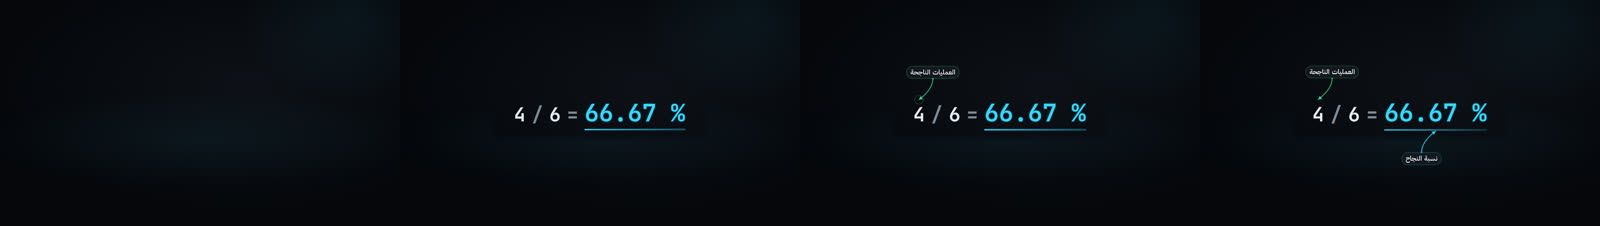
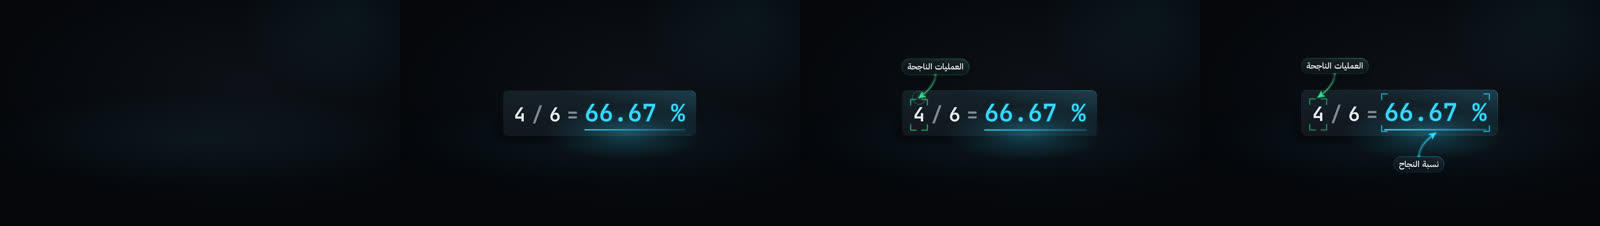
P7 typeui: CalloutArrow finished (rim-lit pill, corner brackets, gradient ribbon with comet and notched head; snap PASS det 0 qa 0, baselines pending-critic; perf lite 0.073 / standard 0.096 / hero 0.099 box s/frame; Arabic QA pass)
Claude-Session: https://claude.ai/code/session_01VrU9wxU8GmuhdhWAAHnnQ8

diff --git a/studio/src/components/CalloutArrow/CalloutArrow.tsx b/studio/src/components/CalloutArrow/CalloutArrow.tsx
@@ -3,6 +3,10 @@
 // end = left, top, bottom) on a small glass pill, arrives on the layer anchor with the `label` preset (RTL for Arabic), and the
 // arrow then draws from the label to the target edge (PathDraw timing = `morph` preset, camera ease) and lands with a
 // 2-frame glow pulse on the target point. The label is clamped into ctx.box (title-safe after the camera envelope).
+// Light (ADR-003 LK-F, 04 §1.2): the label is a glass pill with a rim-lit gradient border (key from the upper right), a soft drop
+// shadow and an emissive pool; the target is marked by four corner brackets that close in on it as the label lands, the arrow is a
+// gradient ribbon (faint at the label, full at the tip) with a comet at its drawing head, a notched head and an impact ring on
+// landing; once landed the brackets breathe slowly (frame-driven). 2D only, so hero = standard.
 // Text-safe: the label carries its own glass plate (04 §3.4), so the slot-wide haze / bokeh mask is not used (textRect is
 // off-frame; see docs/p7/catalog_status/typeui.md). Arabic is never split: the label is one MixedText run.
 import React, {useRef} from 'react';
@@ -19,9 +23,12 @@ import {Mx, filmF} from '../_typeui/kit';
 import {useTargetRect} from '../_typeui/target';
 
 const clamp = {extrapolateLeft: 'clamp', extrapolateRight: 'clamp'} as const;
-const GAP = 110; // label clearance from the target edge (layer px)
+const GAP = 130; // label clearance from the target edge (layer px)
+const BRACKET = 12; // bracket clearance around the target (layer px)
+const ARM = 26; // bracket arm length (layer px, capped by the target size)
+const TIP = BRACKET + 8; // the arrow tip stops this far outside the target edge
 const RISE = 0.6; // diagonal: the label sits this share of its gap above / beside the target axis
-const PILL = {x: 0.55, y: 0.22}; // pill padding in em of the label size
+const PILL = {x: 0.6, y: 0.24}; // pill padding in em of the label size
 
 type Geo = {lx: number; ly: number; ax: number; ay: number; bx: number; by: number; cx: number; cy: number};
 /** Label top-left (lx, ly) and the arrow from the label edge (a) via control (c) to the target edge (b). */
@@ -46,10 +53,10 @@ export const geometry = (side: Props['side'], t: Rect, lw: number, lh: number, b
   let ay = lcy;
   let bx = cxT;
   let by = cyT;
-  if (side === 'start') (ax = lx), (bx = t.x + t.w + 10), (by = cyT);
-  else if (side === 'end') (ax = lx + lw), (bx = t.x - 10), (by = cyT);
-  else if (side === 'top') (ay = ly + lh), (by = t.y - 10), (bx = cxT);
-  else (ay = ly), (by = t.y + t.h + 10), (bx = cxT);
+  if (side === 'start') (ax = lx), (bx = t.x + t.w + TIP), (by = cyT);
+  else if (side === 'end') (ax = lx + lw), (bx = t.x - TIP), (by = cyT);
+  else if (side === 'top') (ay = ly + lh), (by = t.y - TIP), (bx = cxT);
+  else (ay = ly), (by = t.y + t.h + TIP), (bx = cxT);
   const horiz = side === 'start' || side === 'end';
   const cx = horiz ? bx + (ax - bx) * 0.5 : ax;
   const cy = horiz ? ay : by + (ay - by) * 0.5;
@@ -63,7 +70,7 @@ export const CalloutArrowView: React.FC<DcProps<Props>> = ({props, ctx}) => {
   const exitN = presetFrames('exit', ctx.fps, true);
   const active = t >= ctx.at - 1 && (exitT === undefined || exitT <= exitN);
   const color = C[props.color];
-  const size = SIZE.label;
+  const size = SIZE.body;
   const fit = useAutoFit(labelRef, {id: `${ctx.id}:label`, size, min: SIZE.labelMin, maxW: ctx.box.w * 0.45, key: props.label ?? ''});
   const {ref, m, e} = useTargetRect(props.to, t, active, () => {
     const el = labelRef.current;
@@ -82,7 +89,7 @@ export const CalloutArrowView: React.FC<DcProps<Props>> = ({props, ctx}) => {
   const fade = exitT !== undefined && exitT >= 0 ? interpolate(exitT, [0, presetFrames('exit', ctx.fps)], [1, 0], {...clamp, easing: ease.camera}) : 1;
   const g = m && e ? geometry(props.side, m.rect, props.label ? e.lw : 0, props.label ? e.lh : 0, ctx.box) : null;
   const d = g ? `M ${g.ax.toFixed(1)} ${g.ay.toFixed(1)} Q ${g.cx.toFixed(1)} ${g.cy.toFixed(1)} ${g.bx.toFixed(1)} ${g.by.toFixed(1)}` : '';
-  // arrow head along the end tangent (control -> end)
+  // arrow head along the end tangent (control -> end): a notched barb, not a plain triangle
   const head = (() => {
     if (!g) return '';
     const dx = g.bx - g.cx;
@@ -90,22 +97,70 @@ export const CalloutArrowView: React.FC<DcProps<Props>> = ({props, ctx}) => {
     const L = Math.max(1e-3, Math.hypot(dx, dy));
     const ux = dx / L;
     const uy = dy / L;
-    const s = 16;
-    const w = 9;
+    const s = 28;
+    const w = 14;
+    const n = 9; // notch depth
     const bx = g.bx - ux * s;
     const by = g.by - uy * s;
-    return `M ${g.bx.toFixed(1)} ${g.by.toFixed(1)} L ${(bx - uy * w).toFixed(1)} ${(by + ux * w).toFixed(1)} L ${(bx + uy * w).toFixed(1)} ${(by - ux * w).toFixed(1)} Z`;
+    const nx = g.bx - ux * (s - n);
+    const ny = g.by - uy * (s - n);
+    const f = (x: number, y: number) => `${x.toFixed(1)} ${y.toFixed(1)}`;
+    return `M ${f(g.bx, g.by)} L ${f(bx - uy * w, by + ux * w)} L ${f(nx, ny)} L ${f(bx + uy * w, by - ux * w)} Z`;
+  })();
+  // comet at the drawing head (quadratic Bezier point at the draw progress)
+  const comet = g && p > 0 && p < 1 ? {x: (1 - p) * (1 - p) * g.ax + 2 * (1 - p) * p * g.cx + p * p * g.bx, y: (1 - p) * (1 - p) * g.ay + 2 * (1 - p) * p * g.cy + p * p * g.by} : null;
+  // target brackets: they close in from BRACKET + 18 px on the label's anchor frame and then breathe (period 3 s) once landed
+  const markP = revealProgress(t - ctx.at, presetFrames('arrive', ctx.fps)) * fade;
+  const breathe = t >= landed ? 0.82 + 0.18 * Math.sin((2 * Math.PI * (t - landed)) / (ctx.fps * 3)) : 0.82;
+  const br = (() => {
+    if (!m) return '';
+    const r = m.rect;
+    const pad = BRACKET + 18 * (1 - markP);
+    const x0 = r.x - pad;
+    const y0 = r.y - pad;
+    const x1 = r.x + r.w + pad;
+    const y1 = r.y + r.h + pad;
+    const a = Math.min(ARM, (x1 - x0) / 3, (y1 - y0) / 3);
+    const f = (x: number, y: number) => `${x.toFixed(1)} ${y.toFixed(1)}`;
+    return [
+      `M ${f(x0, y0 + a)} L ${f(x0, y0)} L ${f(x0 + a, y0)}`,
+      `M ${f(x1 - a, y0)} L ${f(x1, y0)} L ${f(x1, y0 + a)}`,
+      `M ${f(x1, y1 - a)} L ${f(x1, y1)} L ${f(x1 - a, y1)}`,
+      `M ${f(x0 + a, y1)} L ${f(x0, y1)} L ${f(x0, y1 - a)}`,
+    ].join(' ');
   })();
   const ls = fit.size;
+  const gradId = `${ctx.id}-ca-grad`;
+  const rim = `linear-gradient(to bottom left, ${color}${hex(0.95)} 0%, ${color}${hex(0.32)} 40%, ${color}${hex(0.16)} 100%)`;
+  const stock = `linear-gradient(180deg, ${C.panel}${hex(0.92)}, ${C.ground}${hex(0.88)})`;
+  const kLight = 0.5 + 0.5 * markP + ctx.mod.glow;
   return (
     <div ref={ref} style={{position: 'absolute', inset: 0}}>
-      {g && p > 0 ? (
+      {g ? (
         <svg width="100%" height="100%" viewBox={`0 0 ${W} ${H}`} style={{position: 'absolute', inset: 0, overflow: 'visible', opacity: fade}}>
-          <path d={d} pathLength={1} fill="none" stroke={color} strokeOpacity={0.18} strokeWidth={9} strokeLinecap="round" strokeDasharray={`${p} 1`} />
-          <path d={d} pathLength={1} fill="none" stroke={color} strokeWidth={2.5} strokeLinecap="round" strokeDasharray={`${p} 1`} />
-          <circle cx={g.ax} cy={g.ay} r={4} fill={color} />
-          {p >= 0.98 ? <path d={head} fill={color} /> : null}
-          {pulse > 0 ? <circle cx={g.bx} cy={g.by} r={10 + 22 * (1 - pulse)} fill="none" stroke={color} strokeOpacity={0.7 * pulse} strokeWidth={2} /> : null}
+          <defs>
+            <linearGradient id={gradId} gradientUnits="userSpaceOnUse" x1={g.ax} y1={g.ay} x2={g.bx} y2={g.by}>
+              <stop offset="0" stopColor={color} stopOpacity={0.35} />
+              <stop offset="1" stopColor={color} stopOpacity={1} />
+            </linearGradient>
+          </defs>
+          {markP > 0 ? (
+            <>
+              <path d={br} fill="none" stroke={color} strokeOpacity={0.16 * markP} strokeWidth={10} strokeLinecap="round" strokeLinejoin="round" />
+              <path d={br} fill="none" stroke={color} strokeOpacity={breathe * markP} strokeWidth={3} strokeLinecap="round" strokeLinejoin="round" />
+            </>
+          ) : null}
+          {p > 0 ? (
+            <>
+              <path d={d} pathLength={1} fill="none" stroke={color} strokeOpacity={0.2} strokeWidth={16} strokeLinecap="round" strokeDasharray={`${p} 1`} />
+              <path d={d} pathLength={1} fill="none" stroke={`url(#${gradId})`} strokeWidth={4} strokeLinecap="round" strokeDasharray={`${p} 1`} />
+              <circle cx={g.ax} cy={g.ay} r={9} fill="none" stroke={color} strokeOpacity={0.5} strokeWidth={2} />
+              <circle cx={g.ax} cy={g.ay} r={5} fill={color} />
+              {comet ? <circle cx={comet.x} cy={comet.y} r={7} fill={C.ink} style={{filter: `drop-shadow(0 0 ${ctx.fx.glowInner}px ${color})`}} /> : null}
+              {p >= 0.98 ? <path d={head} fill={color} stroke={color} strokeWidth={2} strokeLinejoin="round" style={{filter: `drop-shadow(0 0 ${Math.round(ctx.fx.glowInner * (0.6 + pulse))}px ${color})`}} /> : null}
+              {pulse > 0 ? <circle cx={g.bx} cy={g.by} r={14 + 34 * (1 - pulse)} fill="none" stroke={color} strokeOpacity={0.7 * pulse} strokeWidth={3} /> : null}
+            </>
+          ) : null}
         </svg>
       ) : null}
       {props.label ? (
@@ -130,9 +185,9 @@ export const CalloutArrowView: React.FC<DcProps<Props>> = ({props, ctx}) => {
               lineHeight: lineHeightFor(props.label),
               padding: `${(PILL.y * ls).toFixed(1)}px ${(PILL.x * ls).toFixed(1)}px`,
               borderRadius: ls,
-              background: `${C.panel}${hex(0.86)}`,
-              border: `1px solid ${color}${hex(0.55)}`,
-              boxShadow: `0 0 ${Math.round(ctx.fx.glowInner * (1 + pulse))}px ${color}${hex(0.25 + 0.3 * pulse)}`,
+              background: `${stock} padding-box, ${rim} border-box`,
+              border: '1.5px solid transparent',
+              boxShadow: `inset 0 1px 0 ${C.ink}${hex(0.1)}, 0 0 ${Math.round(ctx.fx.glowInner * 1.6 * kLight * (1 + pulse))}px ${color}${hex(0.26 + 0.3 * pulse)}, 0 ${Math.round(ls * 0.3)}px ${Math.round(ls * 0.7)}px ${C.void}${hex(0.55)}`,
               color: C.ink,
               textShadow: halo,
               outline: fit.overflow ? `2px dashed ${C.crit}` : undefined,

diff --git a/docs/p7/catalog_status/typeui.md b/docs/p7/catalog_status/typeui.md
@@ -8,3 +8,4 @@
 | TermChip | implemented | A technical term on an emissive glass pill with an optional Arabic gloss. The term is mono Latin in an LTR isolate (Arabic terms go through MixedText with the ADR-010 join gap), the gloss is one whole Arabic string 2 film frames later on `label` (RTL fade + rise). Light per ADR-003 LK-F: key rim light from the upper right on a gradient border, 12 px backdrop blur from standard up, a closest-side emissive pool that ramps with the wipe, a 4 px whole-pixel frame-driven float. Pill arrives on the anchor with an LTR `arrive` wipe (RV1). Kinds: `term` leading dot, `acronym` tracked caps (ok green), `code` darker stock with square-ish corners, `metric` accent underline. 2D only, so hero = standard. Demo = idempotency, SLO, GROUP BY department, p95 (glossary terms, no numbers, so no data-contract ref). Distinct from LowerThird (source plate at the slot edge) and KineticWord (no plate). Baselines pending-critic; critic round 2 approved 8/10. Snap PASS det 0 qa 0. Perf box s/frame: lite 0.107, standard 0.118, hero 0.094 (budgets 0.201 / 0.201 / 1.038). Arabic QA pass. Open (non-blocking): wipe strip for the G8 pilot, faint shelf at 6x gain. |
 | DeepDiveCard | implemented | Deep-Dive entry card (04 §7 identity, 04 §6 rail metaphor): the parent trunk chapter is a lit node on a ticked trunk rail (time reads right to left), a violet branch leaves the node and merges tangentially into the rim of a glass slab, and a dim dashed return arc rises from the slab's end side back onto the rail (the deep dive leaves the trunk and returns). Slab: rim-lit gradient frame (key from the upper right), warm-violet haze, floor pool, far-plane ghost `Pxx` numeral, two ripple rings leaving the node, `DEEP DIVE · Pxx` tag pill, Arabic title (`arrive` RTL whole-string wipe, one `Mx` string, auto-fit floor 56 px), English subtitle, `PREREQ` caption plus mono prerequisite chips (graph `label_en`, Latin only). Frame, rail, tag and title ink on the anchor frame (RV1); branch +2 f, subtitle +3 f, chips 2 film frames apart from +5 f, return arc after the last chip; exit = slide back and fade. 2D only (catalog implies no 3D), so hero = standard. Demo = DD-P23 as locked in the EDL (parent CH-33, `title_ar` exact; `title_en` shortened to the 48-char schema cap) with the pack's prerequisite concepts (`c:embedding`, `c:chunk`, `c:knn`, from `corpus/packs/DD-P23.json` prereqs.table). No number shown, so no data-contract ref. Distinct from ChapterCard (act rail on a trunk title, no branch) and LowerThird (source plate). Baselines pending-critic. Snap PASS det 0 qa 0 (one earlier run under heavy queue load showed det 1187 px once, 0 on all four later runs including the approve run). Perf box s/frame at 3 slots: lite 0.094, standard 0.103, hero 0.104 (budgets 0.201 / 0.201 / 1.038). Arabic QA: `المعنى كموضع` and all Latin strings pass (`reports/qa/arabic/DeepDiveCard.json`). Open note: the full title `Embeddings والـRAG والـAgents: المعنى كموضع` scores 0.757 in the standalone/frame-crop probe (`DeepDiveCard-title-onscreen.json`, RT-010-2 evidence): tesseract reads every word, in logical order (`Embeddings وال RAG وال :Agents المعنى كموضع`), but the tool expects the three Latin isolates in screen order, so its Latin-stream comparison mismatches; the title is the EDL string and cannot change. Native-reader check at G8. |
 | PredictionTimer | implemented | Prediction beat (04 §4 pause, 04 §6 dial metaphor): `PREDICT` mono tag, the Arabic question (whole lines, `arrive` RTL wipe, at most 2 lines of 32 chars via `breakCaption`), a 60-tick glass dial and 2-4 option cards on one baseline (>= 40 px apart, AT-4). Once the options are on screen the clock runs to the `reveal` anchor (linear, the one allowed linear motion): the signal arc and tick ring drain clockwise with a comet head, a time-left sector, a far-plane dashed orbit and a breathing `?`; a scan pulse lifts one option at a time; the last quarter warms signal to warn. On the `reveal` frame the dial bursts (impact flash plus shockwave) and the question and options recede into depth, handing over to the answer layer (no `answer` prop in the frozen schema, so each option is a `data-dc-part="opt<i>"` target for Spotlight / CalloutArrow). No countdown digits (a number would need a data ref). Light per ADR-003 LK-F: key haze from the upper right, rim-lit card borders, floor pool and hairline. 2D only, so hero = standard. Demo = the CH-11 grain question (corpus text) with three candidate answers; no number shown. Baselines pending-critic. Snap PASS det 0 qa 0. Perf box s/frame at 3 slots: lite 0.072, standard 0.104, hero 0.101 (budgets 0.201 / 0.201 / 1.038). Arabic QA pass (`reports/qa/arabic/PredictionTimer.json`, OCR 5/5 exact). |
+| CalloutArrow | implemented | Arrow from an object label to a target layer or a named part of it (`to: 'layer.part'`, found through `data-dc-part` / `data-dc-text`, measured on the settled frame, so the pointer follows the camera). The label is one whole `Mx` string at `SIZE.body` (auto-fit floor 28 px, max 45 % of the slot) on a glass pill at `side` (start = right, end = left, top, bottom), clamped into `ctx.box`; it arrives on the anchor with `label` (RTL for Arabic, RV1). Light per ADR-003 LK-F: rim-lit gradient pill border (key from the upper right), drop shadow, emissive pool; the target is marked by four corner brackets that close in on the anchor frame and then breathe (frame-driven, period 3 s); the arrow is a gradient ribbon (faint at the label, full at the tip, `morph` preset length, camera ease) with an origin node, a comet at the drawing head, a notched head and an impact ring on landing, starting 2 film frames after the label (no label = ink on the anchor). Exit = fade. 2D only (catalog implies no 3D), so hero = standard. `textRect` is off-frame on purpose: the pill carries its own plate (04 §3.4), a slot-sized haze knockout would punch a hole. Demo = callouts on the NilePay success-rate equation (data contract d:5.2:7, the numbers live in the EquationLine terms with their `ref`; CalloutArrow itself shows no number): `rate.t0` (successful operations, top) and `rate.t4` (success rate, bottom). Distinct from Spotlight (dims everything else) and from TermChip (a standalone pill). Baselines pending-critic. Snap PASS det 0 qa 0. Perf box s/frame at 3 slots: lite 0.073, standard 0.096, hero 0.099 (budgets 0.201 / 0.201 / 1.038). Arabic QA pass (`reports/qa/arabic/CalloutArrow.json`, OCR 2/2 exact). Open note: the demo uses sides top and bottom only; start / end are covered by the geometry unit check (`typeui.check.ts`). |
